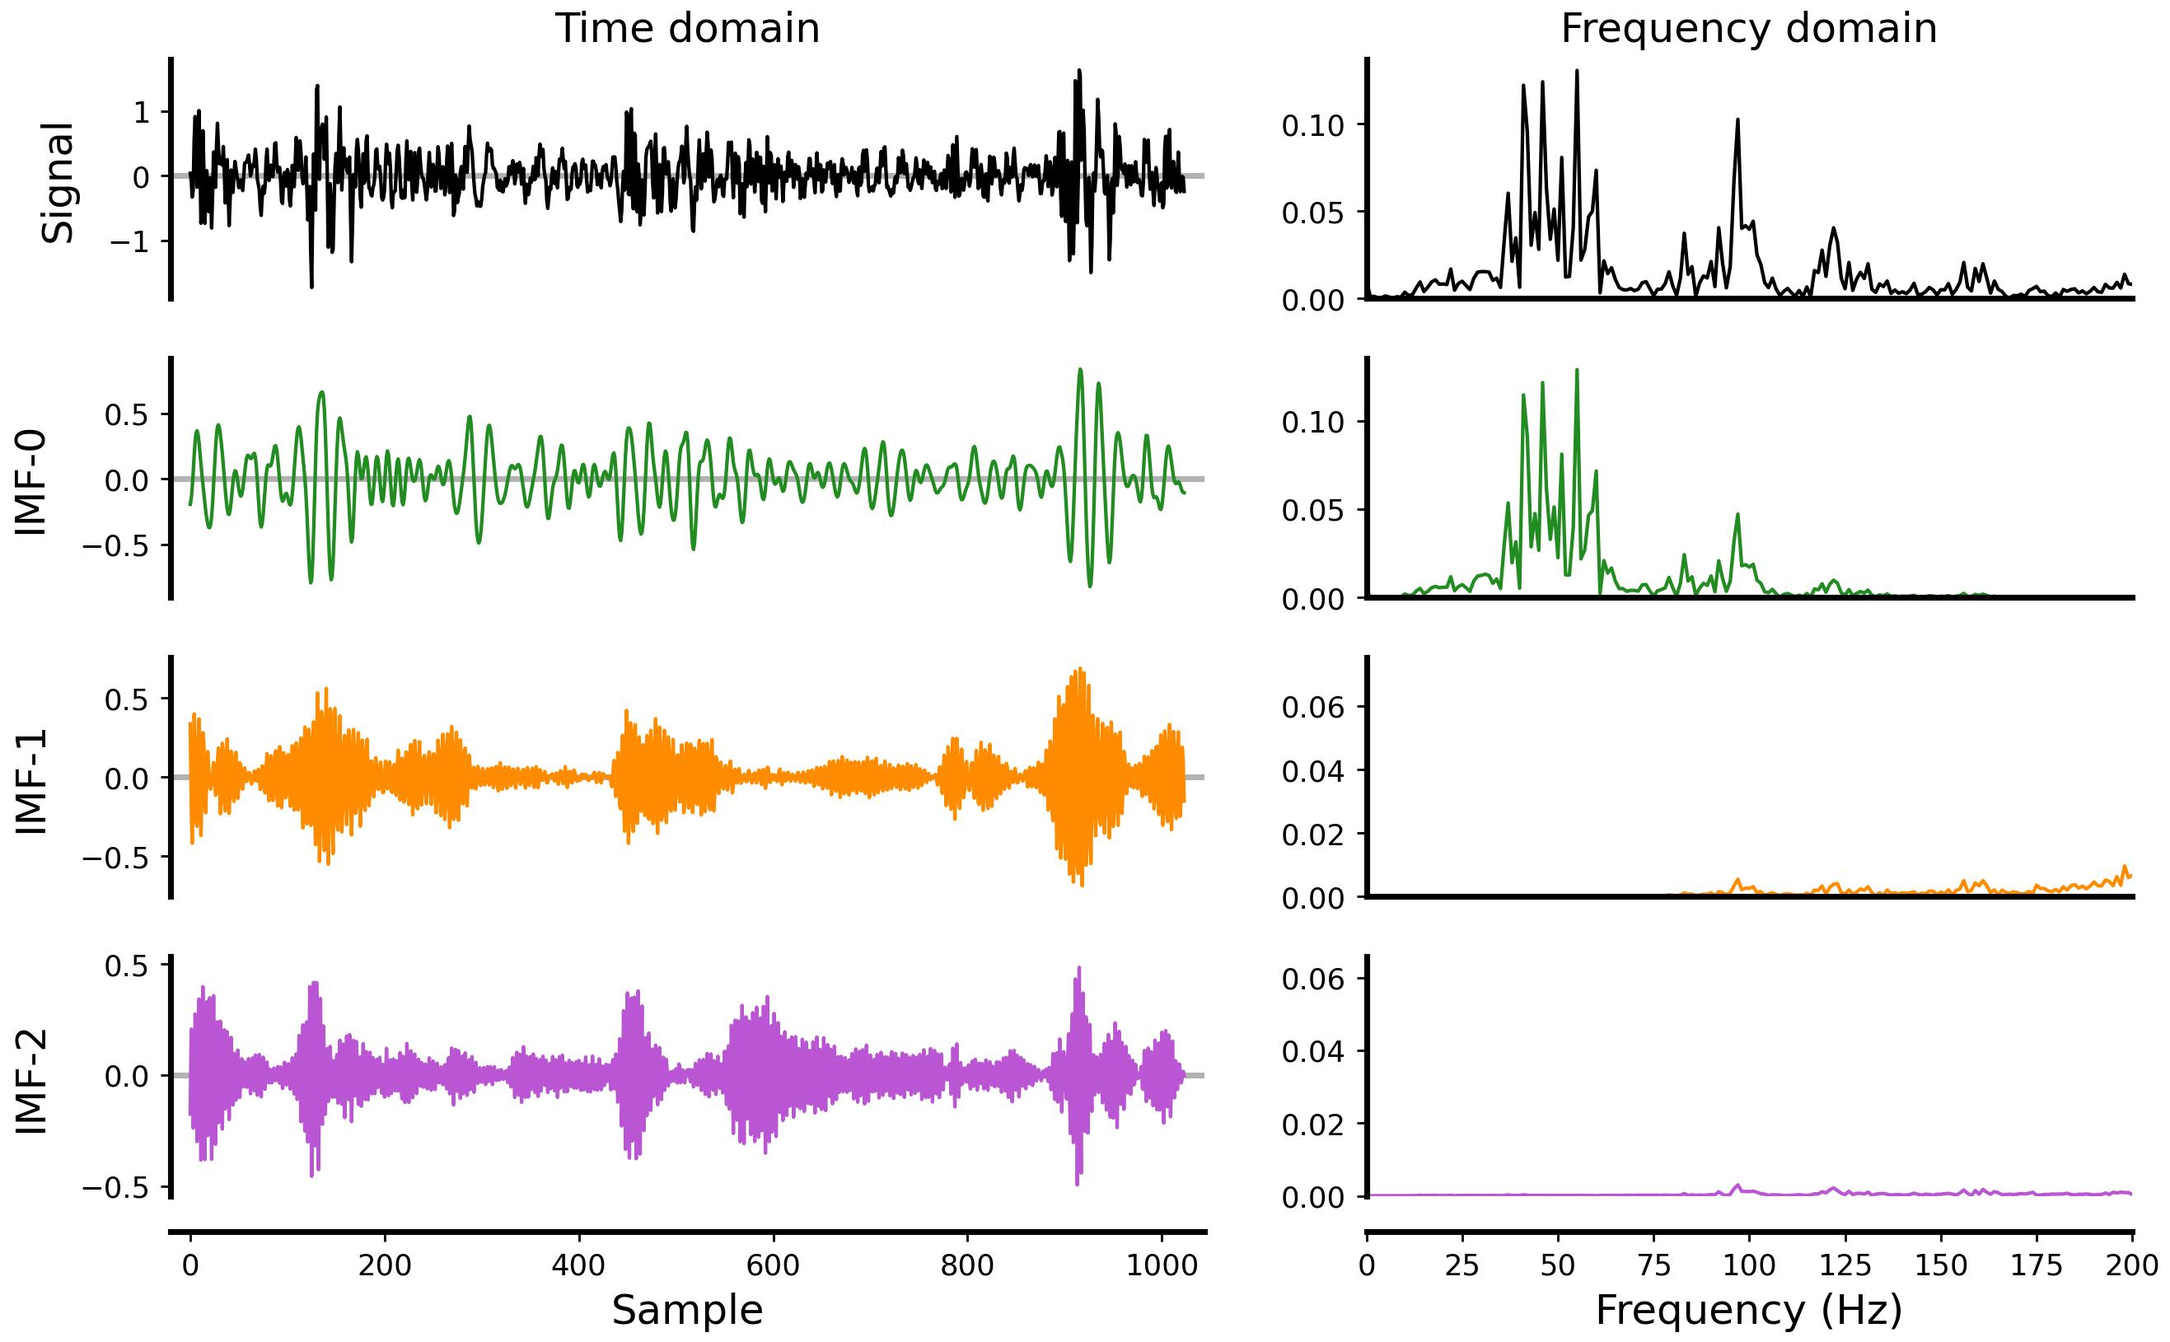
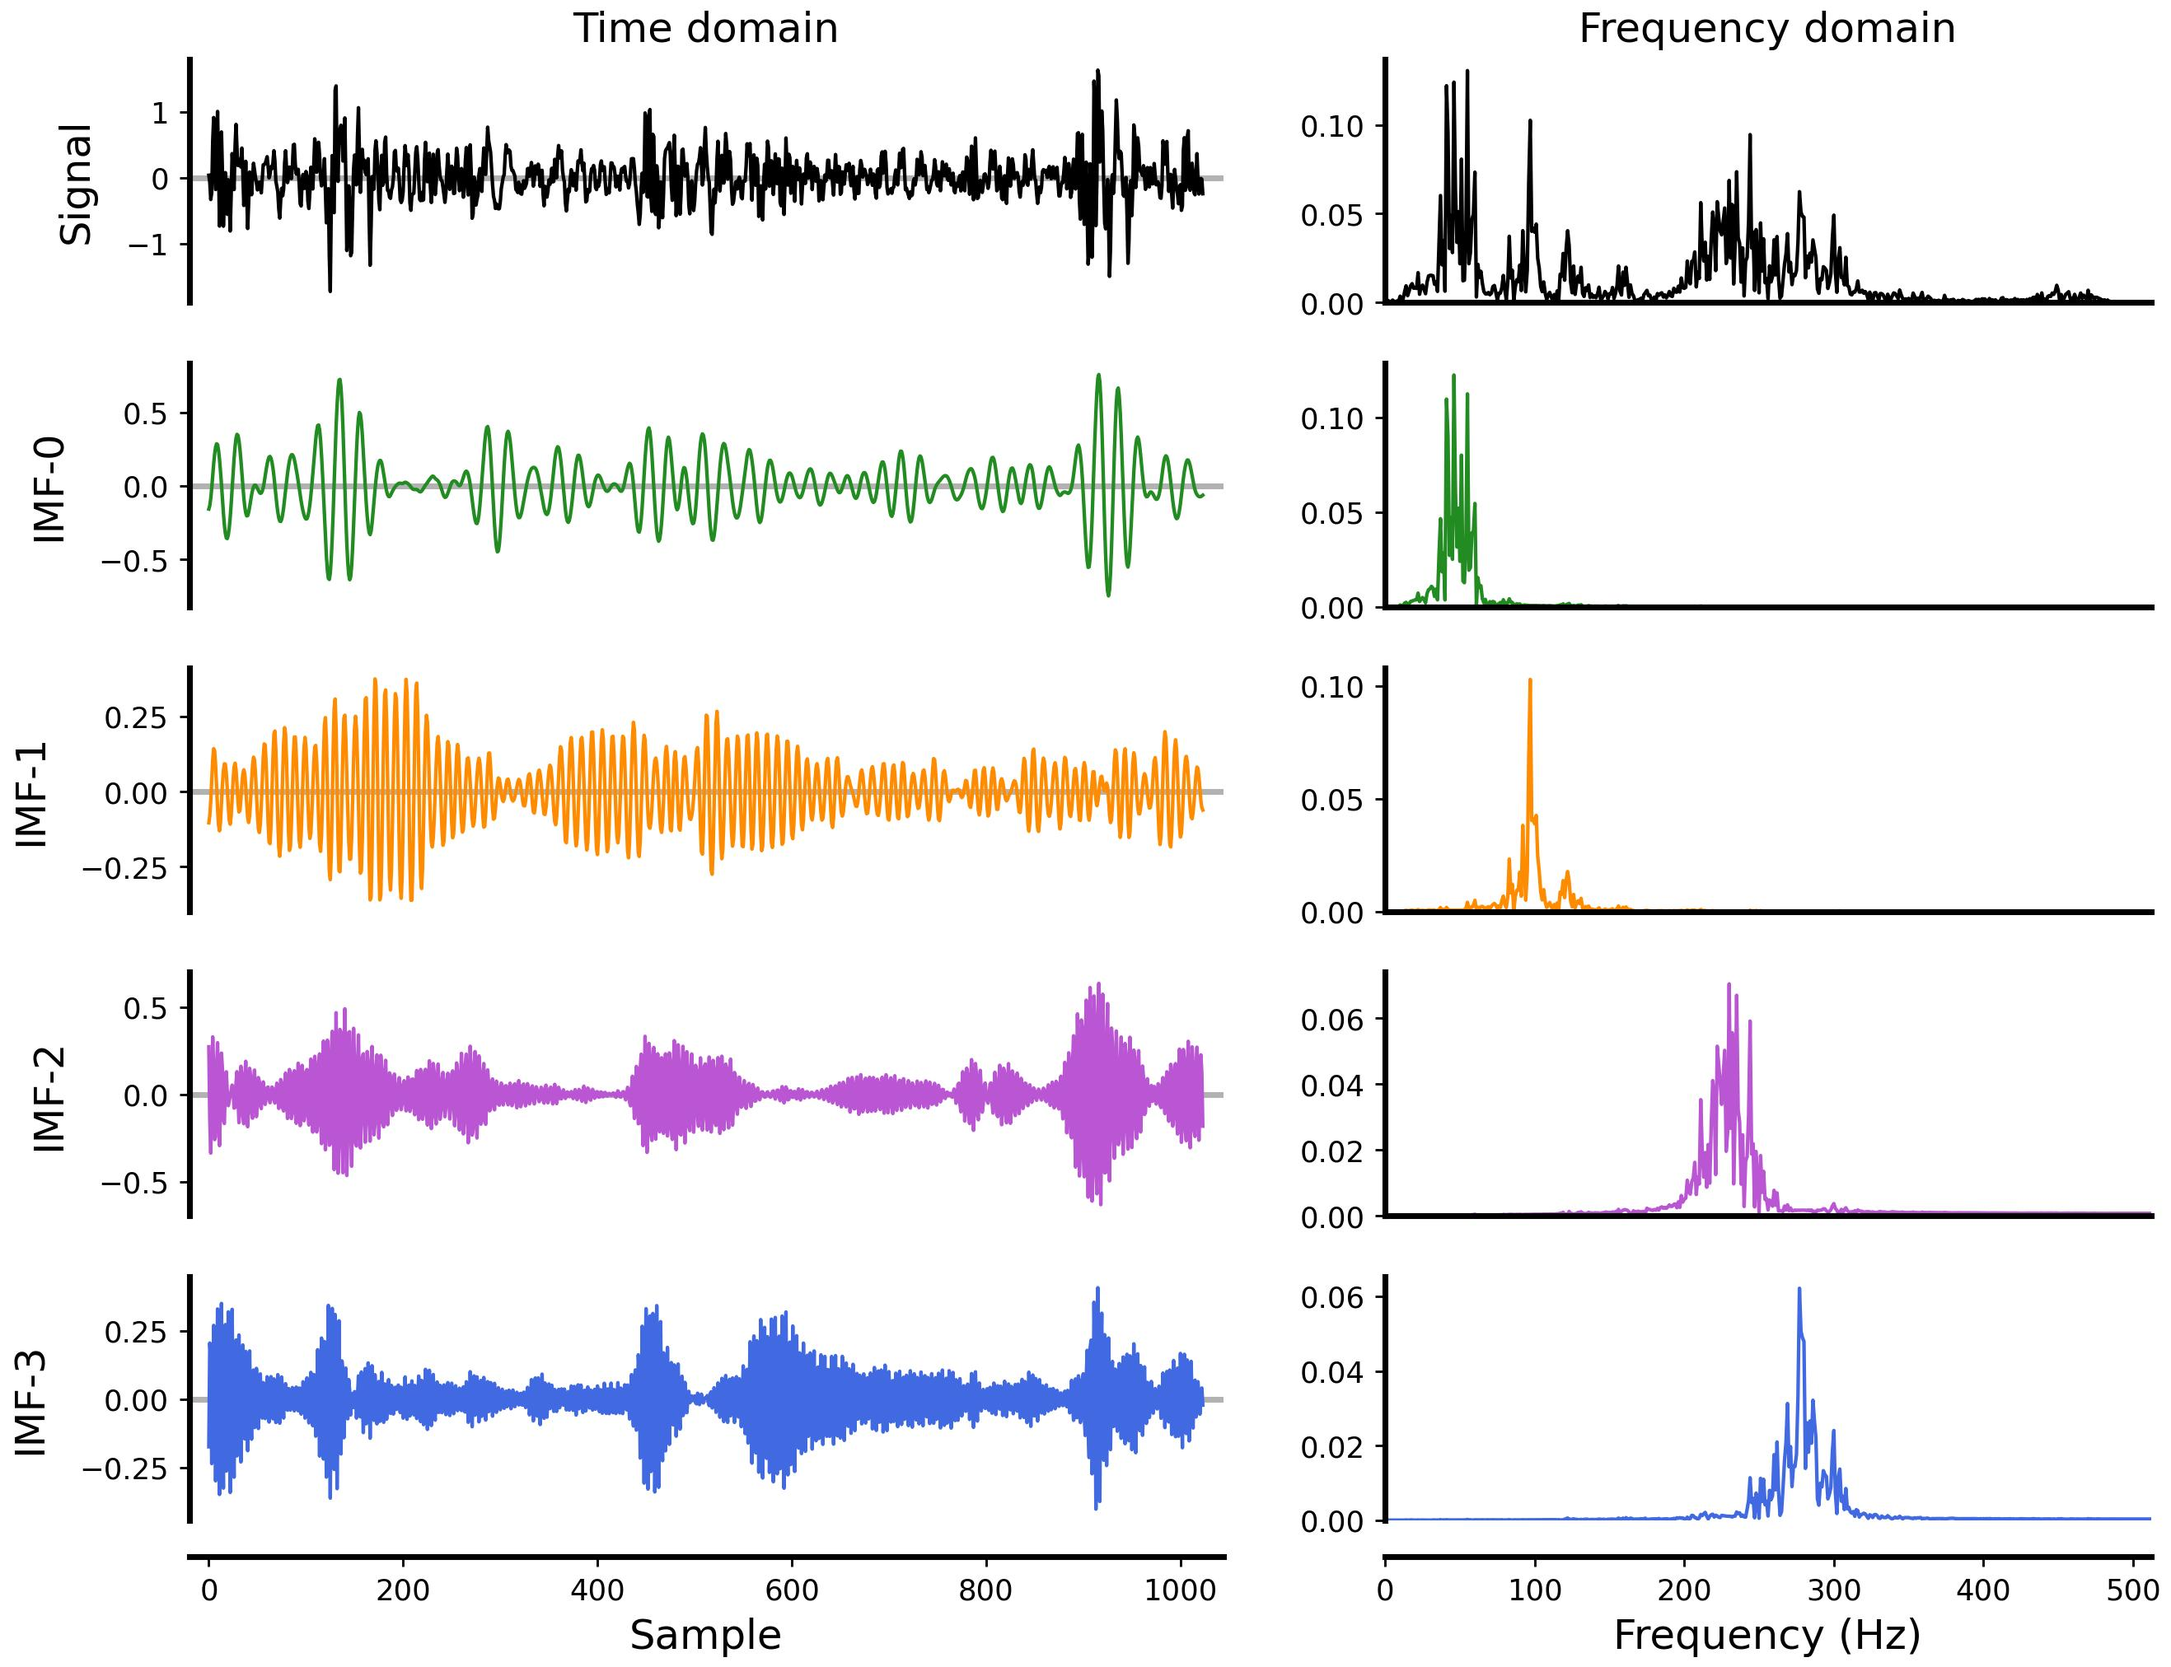
whenxuan: update the readme for test vmd

diff --git a/README.md b/README.md
@@ -61,9 +61,9 @@ from pysdkit.plot import plot_IMFs
 
 t, signal, fs = test_vmd()
 
-vmd = VMD(alpha=500, K=3, tau=0.0, tol=1e-9)
+vmd = VMD(alpha=2000, K=4, tau=0.0, tol=1e-7)
 IMFs = vmd.fit_transform(signal)
-plot_IMFs(signal, IMFs, view="2d_freq", fs=fs, freq_max=200)
+plot_IMFs(signal, IMFs, view="2d_freq", fs=fs, freq_max=fs / 2)
 ~~~
 
 ![vmd_example](https://raw.githubusercontent.com/wwhenxuan/PySDKit/main/images/vmd_example.jpg)
